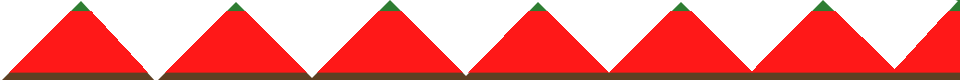
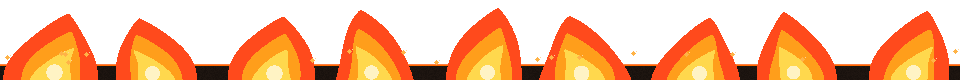
burning platform

diff --git a/main/platforms/burning/platform.go b/main/platforms/burning/platform.go
@@ -11,6 +11,10 @@ components {
   component: "/main/platforms/platform.collisionobject"
 }
 components {
+  id: "bend"
+  component: "/main/platforms/platform.script"
+}
+components {
   id: "burning"
   component: "/main/platforms/burning/burning.script"
   properties {
